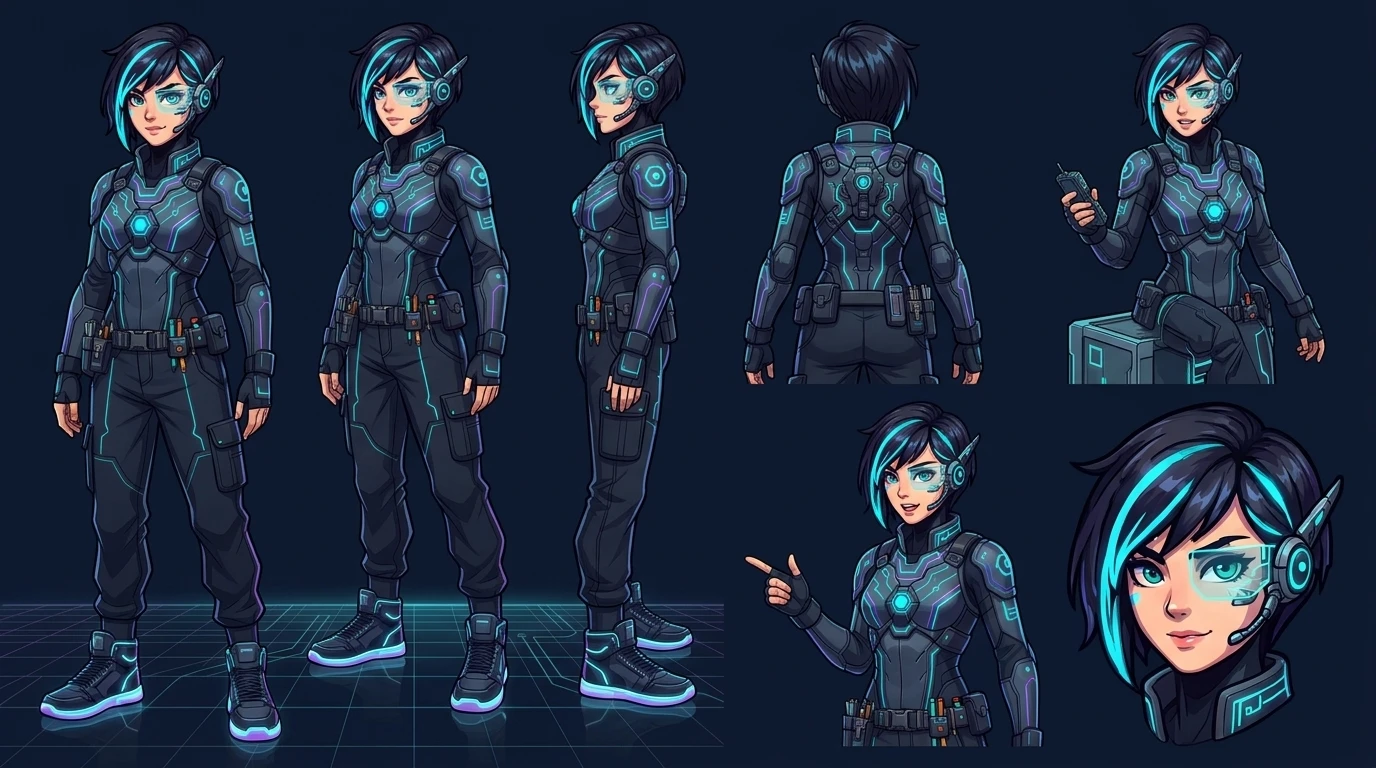
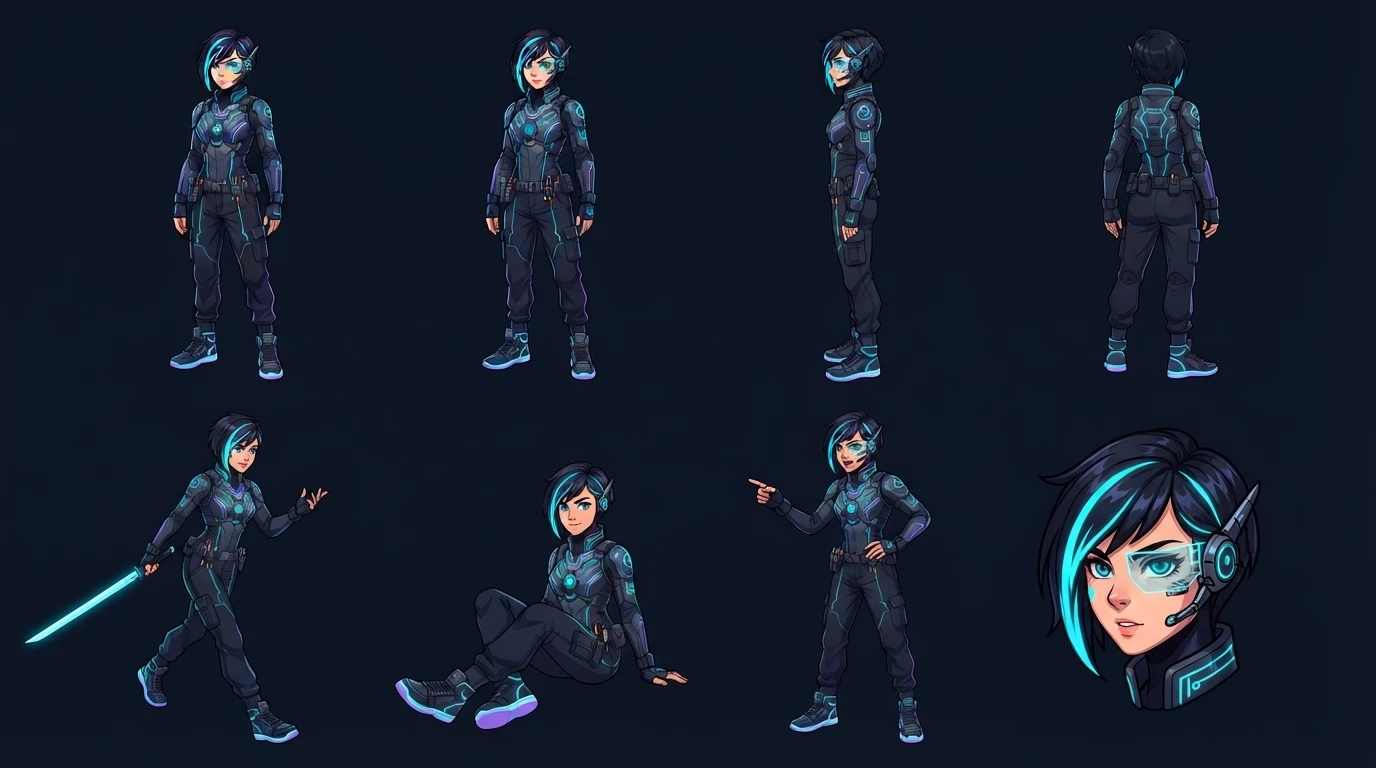
content(escenas): cerradas las 113 hojas de la lista; Autómata, Gheco, Nova, Axón y Kira rehecha

diff --git a/docs/ESCENAS.md b/docs/ESCENAS.md
@@ -49,7 +49,10 @@ Idea del docente: en lugar de una imagen suelta, cada personaje, líder, héroe 
 - **Probado:** con `GEMINI_3_5_FLASH_LITE`, tres hojas juntas (Ceci, Slime, Gheco) dieron exactamente tres figuras correctas al primer intento; con Gheco solo y con Gheco y Lucio, también. Son 3 pruebas: seguir mirando cada imagen.
 - **Generarlas con `GEMINI_3_5_FLASH_LITE` y mirarlas todas antes de aprobar.** Da hojas igual de buenas que `GEMINI_3_8_FLASH` y se corta menos por tiempo. Cerca de una de cada cuatro necesita otra vuelta. Se vio: ropa cambiada (Nima con chaqueta corta: usar la referencia correcta, `0f9fcc6d…`), frase escrita en el borde, nombres de las poses debajo de las figuras, franja blanca abajo, fondo con circuitos o brasas, figuras cortadas, contextura perdida y **dos personajes mezclados en la misma hoja** (la Cocinera con la Maestra). Rehacer desde la referencia original sale mejor que pedir que borre algo. Pedir «ocho figuras CHICAS con mucho aire», «fondo #0B1326 liso», «debajo de las figuras no va NADA» y «dejá vacío el borde inferior».
 - **Una por vez o varias:** las Forjas (`12453694413360128121`) se cortan por tiempo con dos pedidos juntos y hay que usar una sola referencia y de a uno; la Ciudadela, el Puerto y el Valle aguantaron tres o cuatro juntos. Stitch tiene **tope diario de generaciones** («over the daily rate limit»): se llegó a él el 2026-11-05, después de una jornada larga de pedidos; al otro día se sigue.
-- **Tanda del 2026-11-05 (noche), 16 aprobadas; faltan 4, todas de las Forjas (`12453694413360128121`):** el Autómata Guardián, Gheco, Nova y Axón. Ese proyecto se cortó por tiempo en 6 de 7 pedidos, también de a uno y con pedidos mínimos (solo salió la Salamandra); el Imperio, el Valle y el Puerto respondieron bien con 3 o 4 juntos. Un pedido cortado no aparece en `list_screens`, pero esa lista tampoco mostró la Salamandra aprobada: no sirve para saber si se generó. Conviene reintentar otro día. Sigue pendiente rehacer a Kira.
+- **Cerradas las de la lista (2026-11-06):** las 113 de `hojas.py` aprobadas. Las últimas cinco, de las Forjas, salieron de a una y con una sola referencia: Autómata Guardián `d4f20024…`, Gheco `d119a116…`, Nova `25afdf40…`, Axón `9382439e…` y Kira `df23f339…` (reemplaza a la anterior, con la espalda cortada y grilla en el piso). Detalles aceptados: Nova, la figura 7 cortada por las piernas y anillos de luz en las figuras 5 y 7; Axón, la figura 6 de pie en vez de sentado; Gheco, las dos antiparras visibles en la figura vista desde arriba; Kira, la espada de la figura que camina es una hoja de luz cian.
+- **Pedido cortado o «ya está generada» sin imagen:** cambiar de referencia o reescribir el pedido con otras palabras («una pantalla nueva y distinta de las anteriores, en otra disposición»); así salieron Axón y Kira. `list_screens` trae solo parte del proyecto (43 pantallas, sin las hojas de hoy) y no sirve para encontrarla.
+- **Gheco de un lente:** si se pide solo «antiparras», salen dos lentes redondos. Hay que decir «UN SOLO LENTE redondo sobre un ojo, y sobre el otro un visor holográfico chico rectangular; nunca dos lentes» y «COLA LARGA y curva bien visible en todas las figuras».
+- **Frase escrita abajo:** Stitch puede escribir sus propias restricciones («STRICT NEGATIVE CONSTRAINTS…») en una franja. Borrarla sobre la misma pantalla no anduvo con Gheco: la primera edición sacó la franja y dejó la frase; la segunda pasó la imagen a cuadrada y agregó líneas. Salió bien rehaciendo el pedido con «el fondo liso llega hasta los cuatro bordes y las dos filas ocupan toda la altura».
 - **Rótulos en una hoja buena:** borrarlos sobre esa misma pantalla funcionó con la Orca después de cuatro hojas con rótulos («misma imagen exacta… pintá con el color del fondo las líneas blancas debajo de cada figura»), sin pedir «texto» ni «palabras». Con las hojas sí conviene esa edición; en las escenas, en cambio, a veces rehace todo.
 - **Zed:** su hoja (`8b4c0faf…`) es la primera con el visor sobre UN solo ojo; usarla de referencia para Zed de frente. Detalles aceptados: Zed tiene el perfil cortado por la rodilla; Nadia, tres cuartos, perfil y espaldas cortados por el muslo; la Maestra de Moldes, siete figuras (sentada y señalando van juntas) y la espalda cortada; Kaffa, paneles flotantes con garabatos en la pose de señalar; el Archivista, una franja clara en el borde inferior; el Leviatán, dígitos diminutos en el cuerpo (son su diseño). Figuras de distinto tamaño en Zed y Nadia aun pidiéndolas iguales.
 - **Comparar a Gheco con la hoja oficial** (`referencias/9229721314509917104/gheco.webp`), mirándolas lado a lado: en una hoja suelta, uno más gordito parece correcto.
